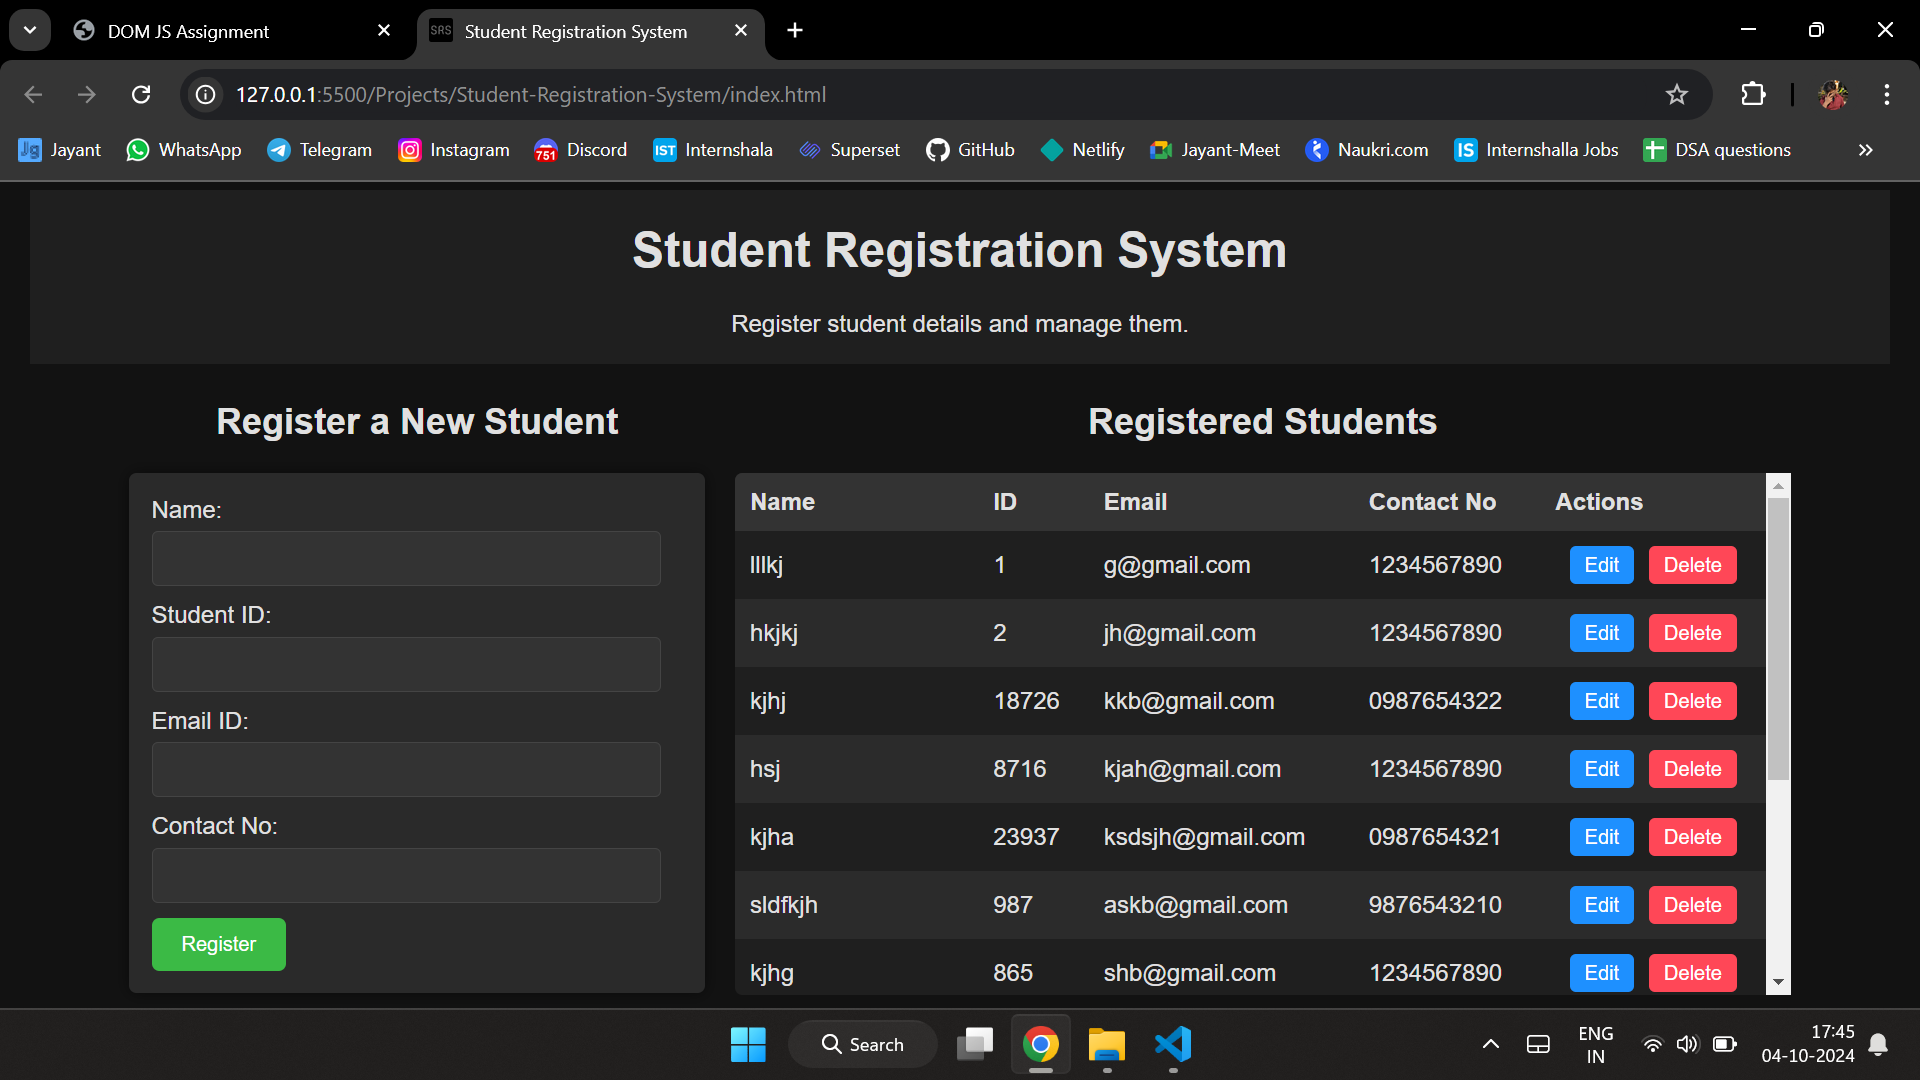
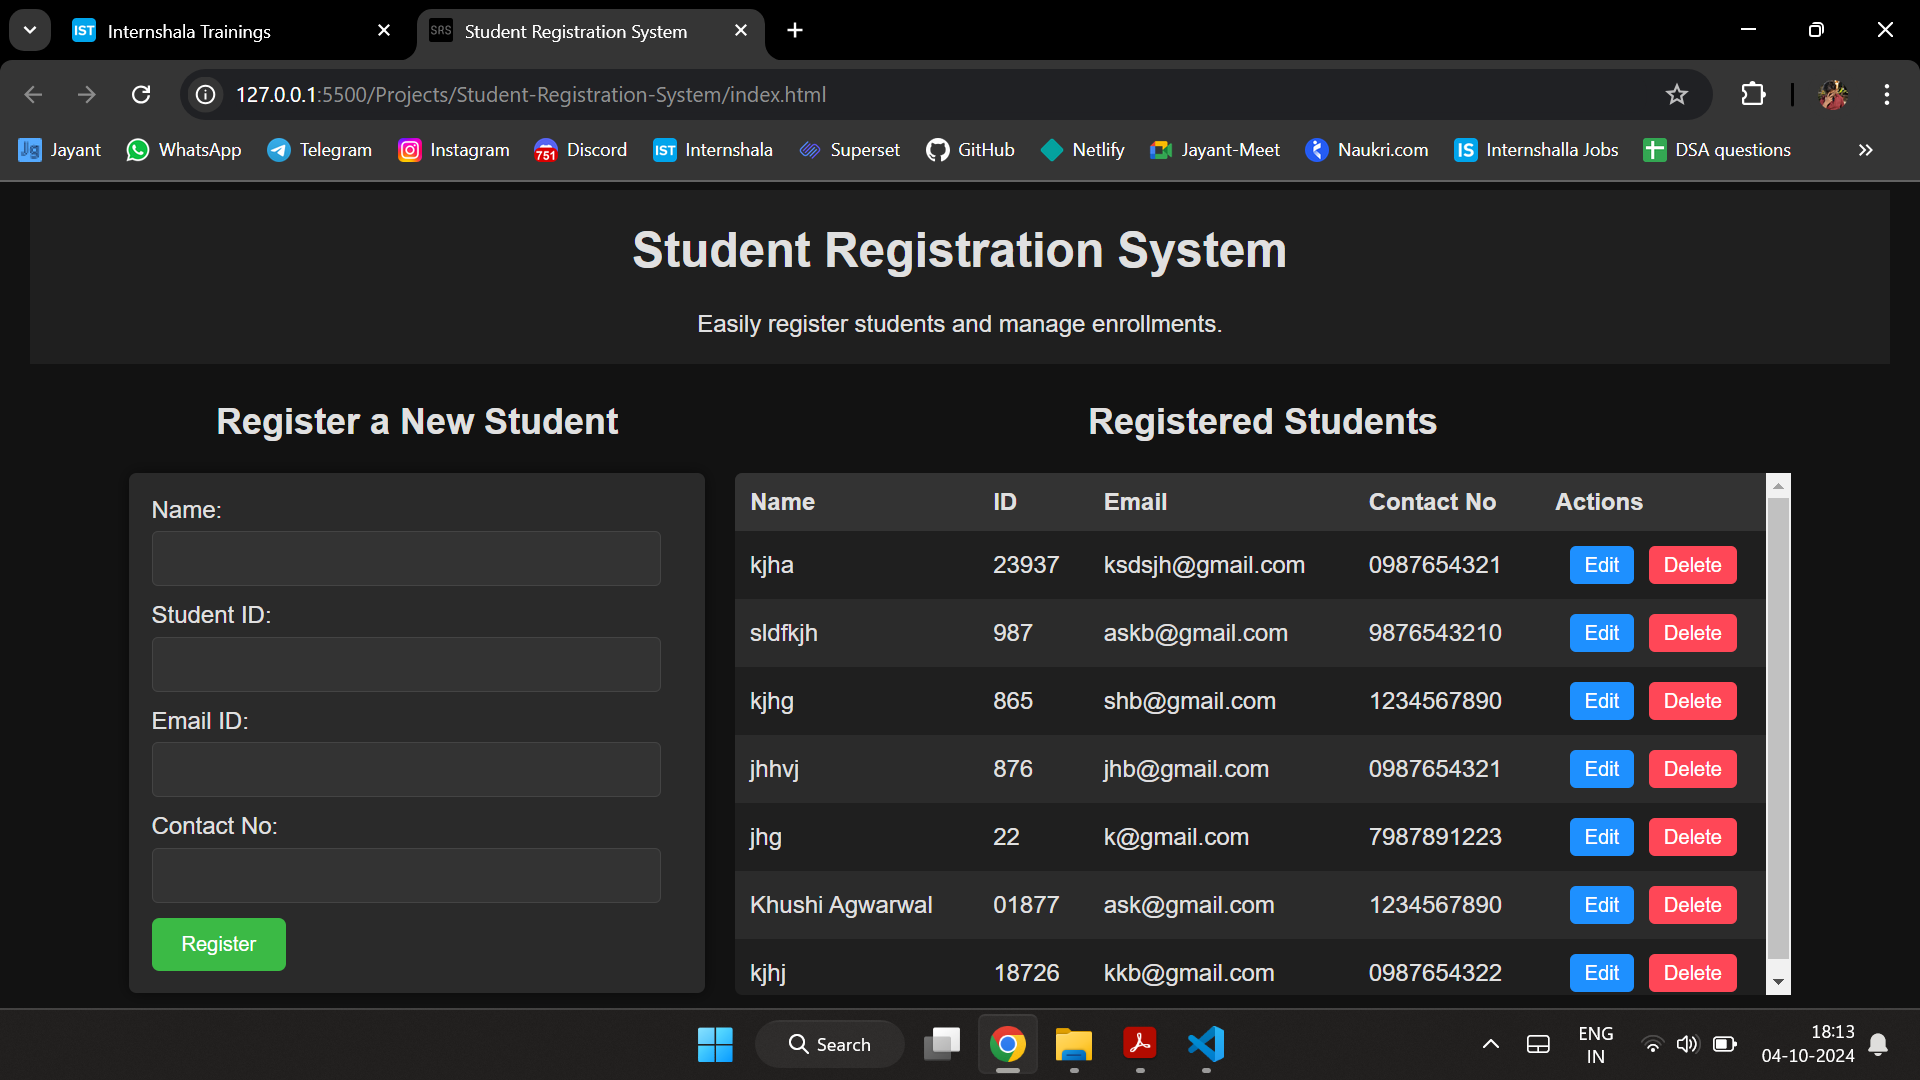
responsiveness aaplied

diff --git a/demo.html b/demo.html
@@ -16,12 +16,14 @@
 
     <header>
         <h1>Student Registration System</h1>
-        <p>Register student details and manage them.</p>
+        <p>
+            Easily register students and manage enrollments.
+        </p>
     </header>
 
     <div class="new-record">
         <section class="new-student">
-            <h2>Register a New Student</h2>
+            <h2>Register Student</h2>
             <form id="studentForm">
                 <label for="studentName">Name:</label>
                 <input type="text" id="studentName" required>
@@ -40,7 +42,7 @@
         </section>
 
         <section class="student-record">
-            <h2>Registered Students</h2>
+            <h2>Enrollment Details</h2>
             <div class="table-container">
                 <table>
                     <thead>

diff --git a/styles.css b/styles.css
@@ -131,3 +131,18 @@ h2 {
   text-align: center;
   color: #e0e0e0;
 }
+
+@media (max-width: 780px) {
+  .new-record {
+    flex-direction: column;
+    align-items: center;
+  }
+
+  .new-student {
+    width: 90%;
+  }
+
+  .student-record {
+    width: 90%;
+  }
+}
